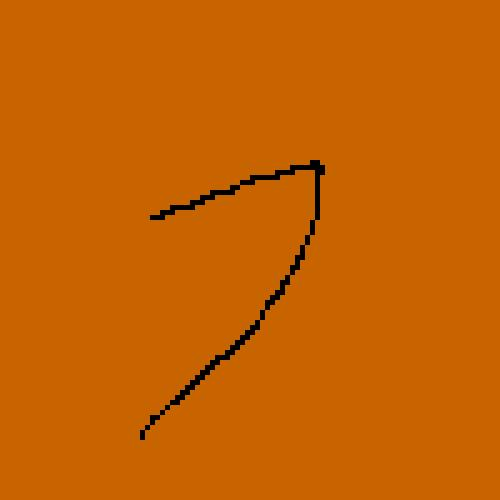
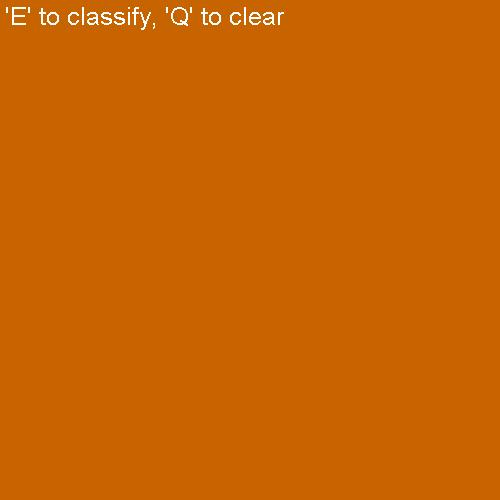
More user friendly drawing implementation

Changed region(s): [[0.27, 0.3, 0.66, 0.9], [0.0, 0.0, 0.57, 0.06]]

diff --git a/src/Main/java/AI/ImageRecognition/DrawingCanvas.java b/src/Main/java/AI/ImageRecognition/DrawingCanvas.java
@@ -34,8 +34,11 @@ public class DrawingCanvas extends JFrame implements Runnable {
     private int canvasY;
 
     private ArrayList<Point> current = new ArrayList<>();
+
+    // canvas background color
     private Color canvasColor = new Color(200, 100, 0);
 
+    // exit call
     private volatile boolean exit = false;
 
     // GoogleConfig object for visionML
@@ -46,6 +49,20 @@ public class DrawingCanvas extends JFrame implements Runnable {
     public DrawingCanvas(RunDrawingCanvas rdc) {
         this.rdc = rdc; // allow set stop process
 
+        // canvas settings
+        canvas.setSize(canvasSize, canvasSize);
+        canvasX = canvas.getX();
+        canvasY = canvas.getY();
+        this.add(canvas);
+
+        // image settings
+        imageClass.setText(defaultLabel);
+        imageClass.setSize(400, 100);
+        imageClass.setVisible(true);
+        imageClass.setLocation(240, 450);
+        this.add(imageClass);
+
+        // jframe settings
         this.setUndecorated(true);  // remove border
         this.setTitle("Drawing Canvas");
         this.setSize(windowX, windowY);
@@ -55,81 +72,29 @@ public class DrawingCanvas extends JFrame implements Runnable {
         this.setResizable(false);
         this.setLayout(null);
 
-        canvas.setSize(canvasSize, canvasSize);
-        canvasX = canvas.getX();
-        canvasY = canvas.getY();
-        this.add(canvas);
-
-
-//        JButton clearButton = new JButton();
-//        JButton classifyButton = new JButton();
-
-        imageClass.setText(defaultLabel);
-        imageClass.setSize(400, 100);
-        imageClass.setVisible(true);
-        imageClass.setLocation(240, 450);
-
-//        clearButton.setText("Clear");
-//        clearButton.setSize(100, 40);
-//
-//        clearButton.setVisible(true);
-//        clearButton.setLocation(10, 500);
-//
-//        clearButton.addActionListener(new ActionListener() {
-//            @Override
-//            public void actionPerformed(ActionEvent e) {
-//                ResetGrid();
-//                repaint();
-//            }
-//        });
-//
-//        classifyButton.setText("Classify");
-//        classifyButton.setSize(100, 40);
-//
-//        classifyButton.setVisible(true);
-//        classifyButton.setLocation(120, 500);
-//
-//        classifyButton.addActionListener(new ActionListener() {
-//            @Override
-//            public void actionPerformed(ActionEvent e) {
-//                try {
-//                    String[] tempData = googleConfig.predict(saveGridAsImage());
-//                    imageClass.setText(defaultLabel + tempData[0] + ", " + tempData[1]);
-//                } catch (Exception ex) {
-//                    System.out.println(ex);
-//                }
-//
-//                // stop the thread
-//                stop();
-//            }
-//        });
-
-
-//        this.add(clearButton);
-//        this.add(classifyButton);
-        this.add(imageClass);
-
-
         // Add listener for mouse movements
         Move move = new Move();
         this.addMouseMotionListener(move);
 
-        //Add listener for mouse clicks
+        // Add listener for mouse clicks
         Click click = new Click();
         this.addMouseListener(click);
 
+        // add keyboard listener
+        Keypress press = new Keypress();
+        this.addKeyListener(press);
     }
 
     /**
      * Resets the grid to default 0 values
      */
-//    public void ResetGrid() {
-//        for (int i = 0; i < gridX; i++) {
-//            for (int j = 0; j < gridY; j++) {
-//                grid[i][j] = (float) 0.0;
-//            }
-//        }
-//    }
+    public void resetGrid() {
+        for (int i = 0; i < gridX; i++) {
+            for (int j = 0; j < gridY; j++) {
+                grid[i][j] = (float) 0.0;
+            }
+        }
+    }
 
     /** Saves the drawing canvas as an image locally.
      *
@@ -170,6 +135,7 @@ public class DrawingCanvas extends JFrame implements Runnable {
 
     /**
      * Canvas holds the grid rectangles and has a function to draw the canvas based on the values in the grid array
+     * and draw the text on how to use the canvas on top of it
      */
     public class Canvas extends JPanel {
         public void paintComponent(Graphics g) {
@@ -180,6 +146,10 @@ public class DrawingCanvas extends JFrame implements Runnable {
                     g.fillRect(i * pixelSize, j * pixelSize, pixelSize, pixelSize);
                 }
             }
+            // drawing canvas usage text (may be placed in canvas border texture later)
+            g.setColor(Color.WHITE);
+            g.setFont(new Font("DialogInput", Font.PLAIN, 20));
+            g.drawString("\'E\' to cast spell, \'Q\' to clear drawing", 5, 20);
         }
     }
 
@@ -240,33 +210,6 @@ public class DrawingCanvas extends JFrame implements Runnable {
             // if not directly drawn over, make less dark
             grid[x][y] = 1f;
         }
-
-//        // Amount of neighbouring grid points to color
-//        int offset = 1;
-//
-//        // make the grid points close to the current line grey
-//        for (int iOfs = -1 * offset; iOfs <= offset; iOfs++) {
-//            for (int jOfs = -1 * offset; jOfs <= offset; jOfs++) {
-//                int x = i + iOfs;
-//                int y = j + jOfs;
-//                // Check if we are still within grid bounds
-//                if (x >= 0 && x < gridX && y >= 0 && y < gridY) {
-//                    // if not directly drawn over, make less dark
-//                    if (iOfs != 0 || jOfs != 0) {
-//                        grid[x][y] += 0.25;
-//                    } else {
-//                        grid[x][y] += 1.0;
-//                    }
-//
-//                    // Make sure the colors stay within color bounds
-//                    if (grid[x][y] < (float) 0.0) {
-//                        grid[x][y] = (float) 0.0;
-//                    } else if (grid[x][y] > (float) 1.0) {
-//                        grid[x][y] = (float) 1.0;
-//                    }
-//                }
-//            }
-//        }
     }
 
     public class Move implements MouseMotionListener {
@@ -308,17 +251,6 @@ public class DrawingCanvas extends JFrame implements Runnable {
             repaint();
             // Reset current line points
             current = new ArrayList<>();
-
-            // classify image with google classifier
-            try {
-                String[] tempData = googleConfig.predict(saveGridAsImage());
-                imageClass.setText(defaultLabel + tempData[0] + ", " + tempData[1]);
-            } catch (Exception ex) {
-                System.out.println(ex);
-            }
-
-            // stop the thread
-            stop();
         }
 
         @Override
@@ -332,12 +264,52 @@ public class DrawingCanvas extends JFrame implements Runnable {
         }
     }
 
+    public class Keypress implements KeyListener {
+
+        private boolean released = true;
+        private boolean classify = false;
+
+        @Override
+        public void keyTyped(KeyEvent e) {
+
+        }
+
+        @Override
+        public void keyPressed(KeyEvent e) {
+            if (released && !classify) {
+                // classify image
+                if (e.getKeyChar() == 'e') {
+                    classify = true;
+                    // classify image with google classifier
+                    try {
+                        String[] tempData = googleConfig.predict(saveGridAsImage());
+                        imageClass.setText(defaultLabel + tempData[0] + ", " + tempData[1]);
+                    } catch (Exception ex) {
+                        System.out.println(ex);
+                    }
+                    // stop the thread
+                    released = false;
+                    stop();
+                // reset image
+                } else if (e.getKeyChar() == 'q') {
+                    resetGrid();
+                    repaint();
+                    released = false;
+                }
+            }
+        }
+
+        @Override
+        public void keyReleased(KeyEvent e) {
+            released = true;
+        }
+    }
+
     @Override
     public void run() {
         // keep running while exit is false
         while (!exit) {
         }
-
         // neatly close thread
         this.dispose();
         rdc.stop();
